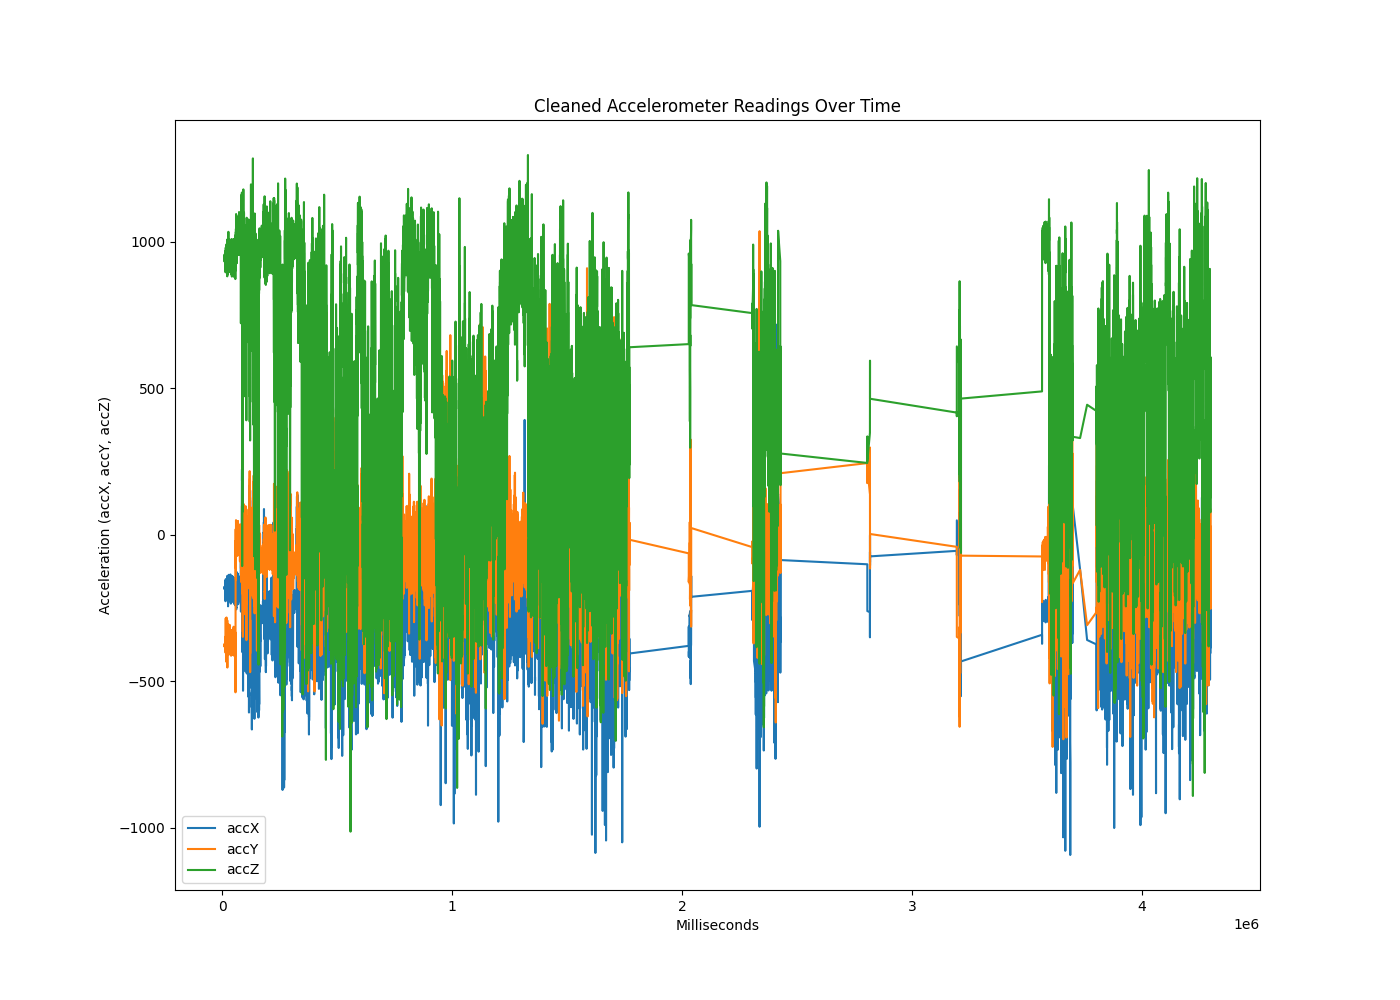
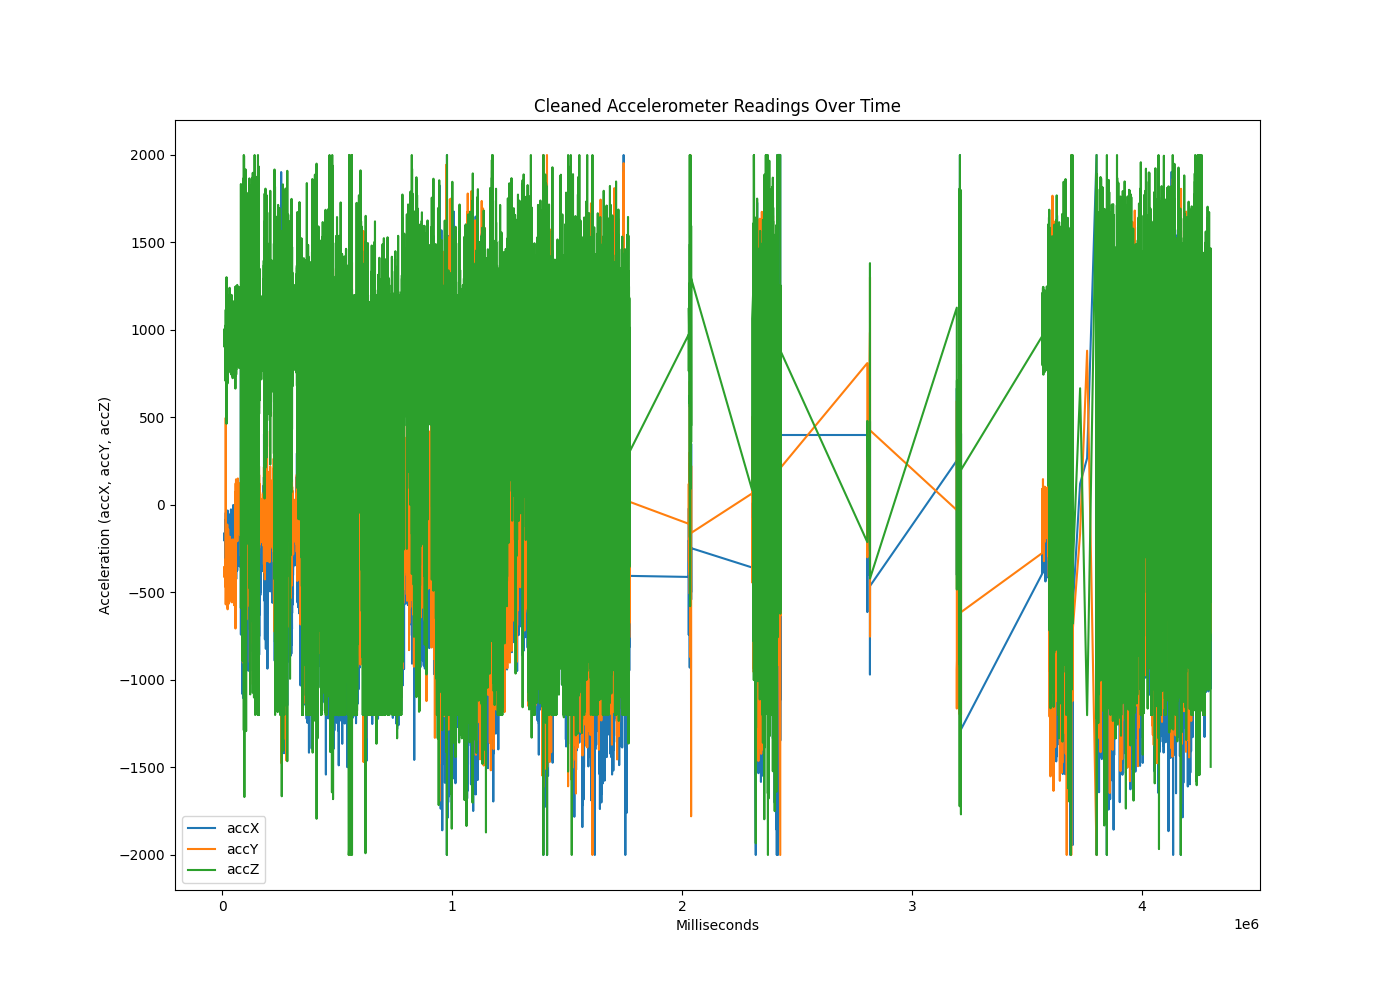
updated images

diff --git a/src/analysis/report/Exploratory_Data_Analysis/main.py b/src/analysis/report/Exploratory_Data_Analysis/main.py
@@ -38,7 +38,7 @@ use_millis = True  # Set this to True to use 'millis_adjusted', or False to use 
 x_axis = df['millis_adjusted'] if use_millis else range(len(df['millis_adjusted']))
 
 # Toggle smoothing on or off
-smooth_data = True  # Set this to False to disable smoothing
+smooth_data = False  # Set this to False to disable smoothing
 smoothing_window = 10  # Define the window size for smoothing
 
 if smooth_data:
